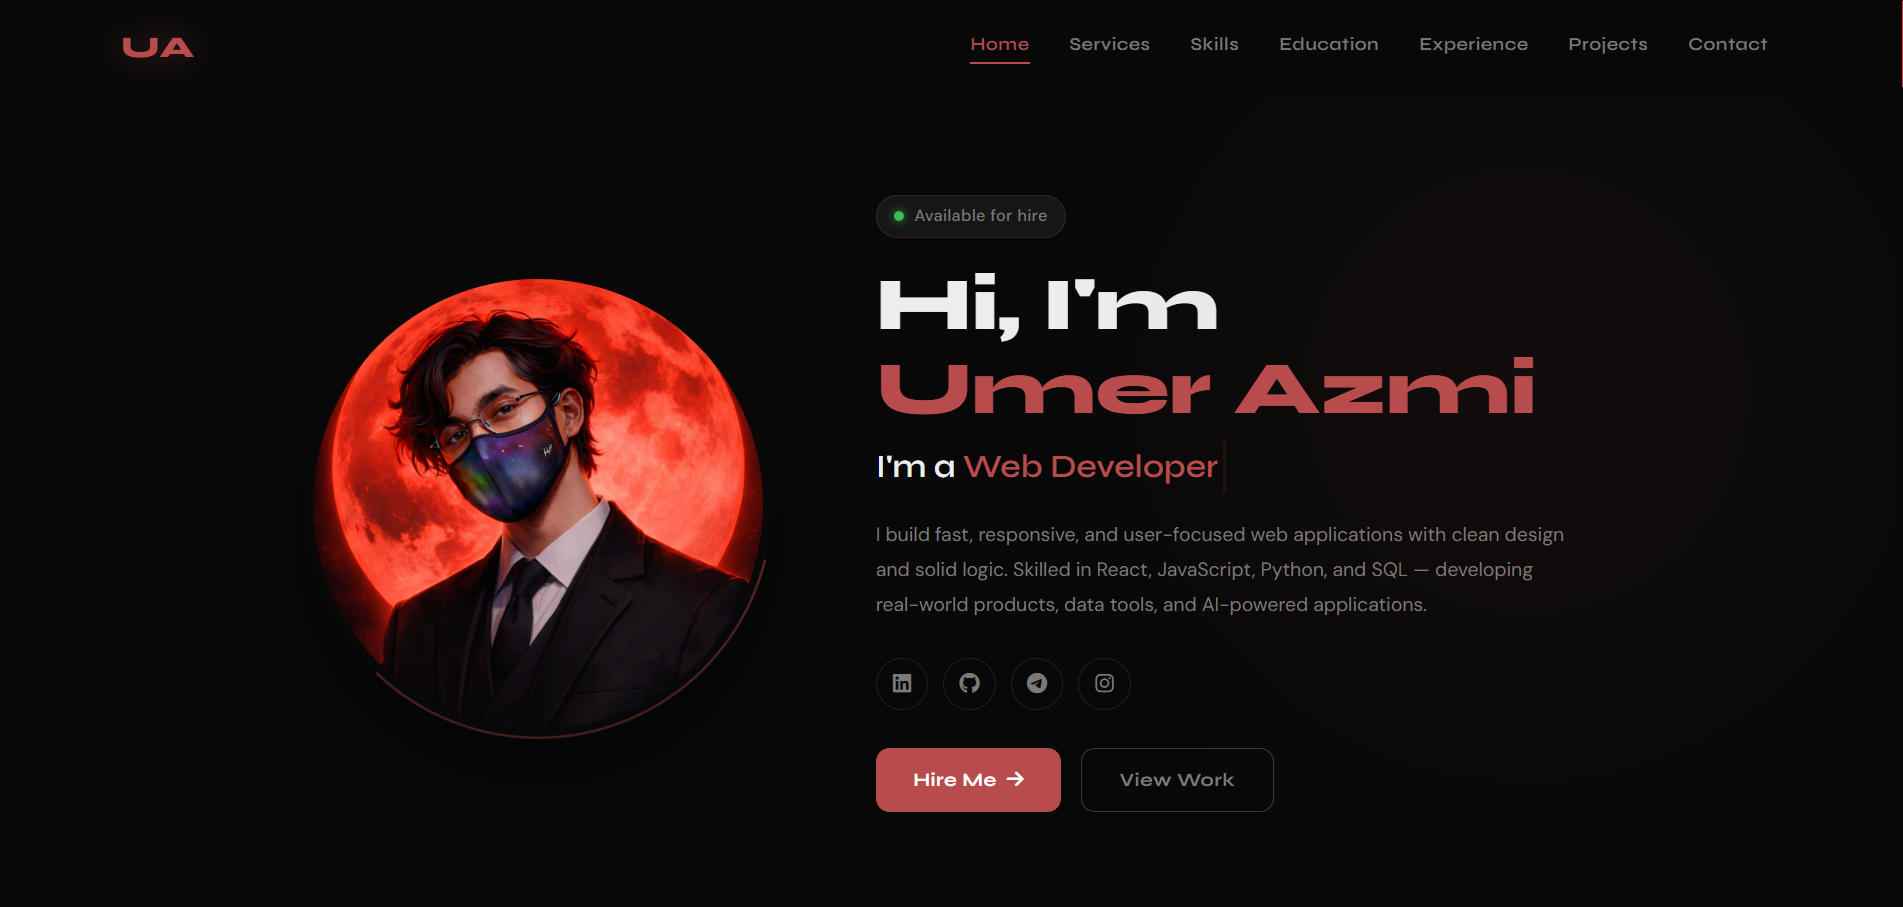
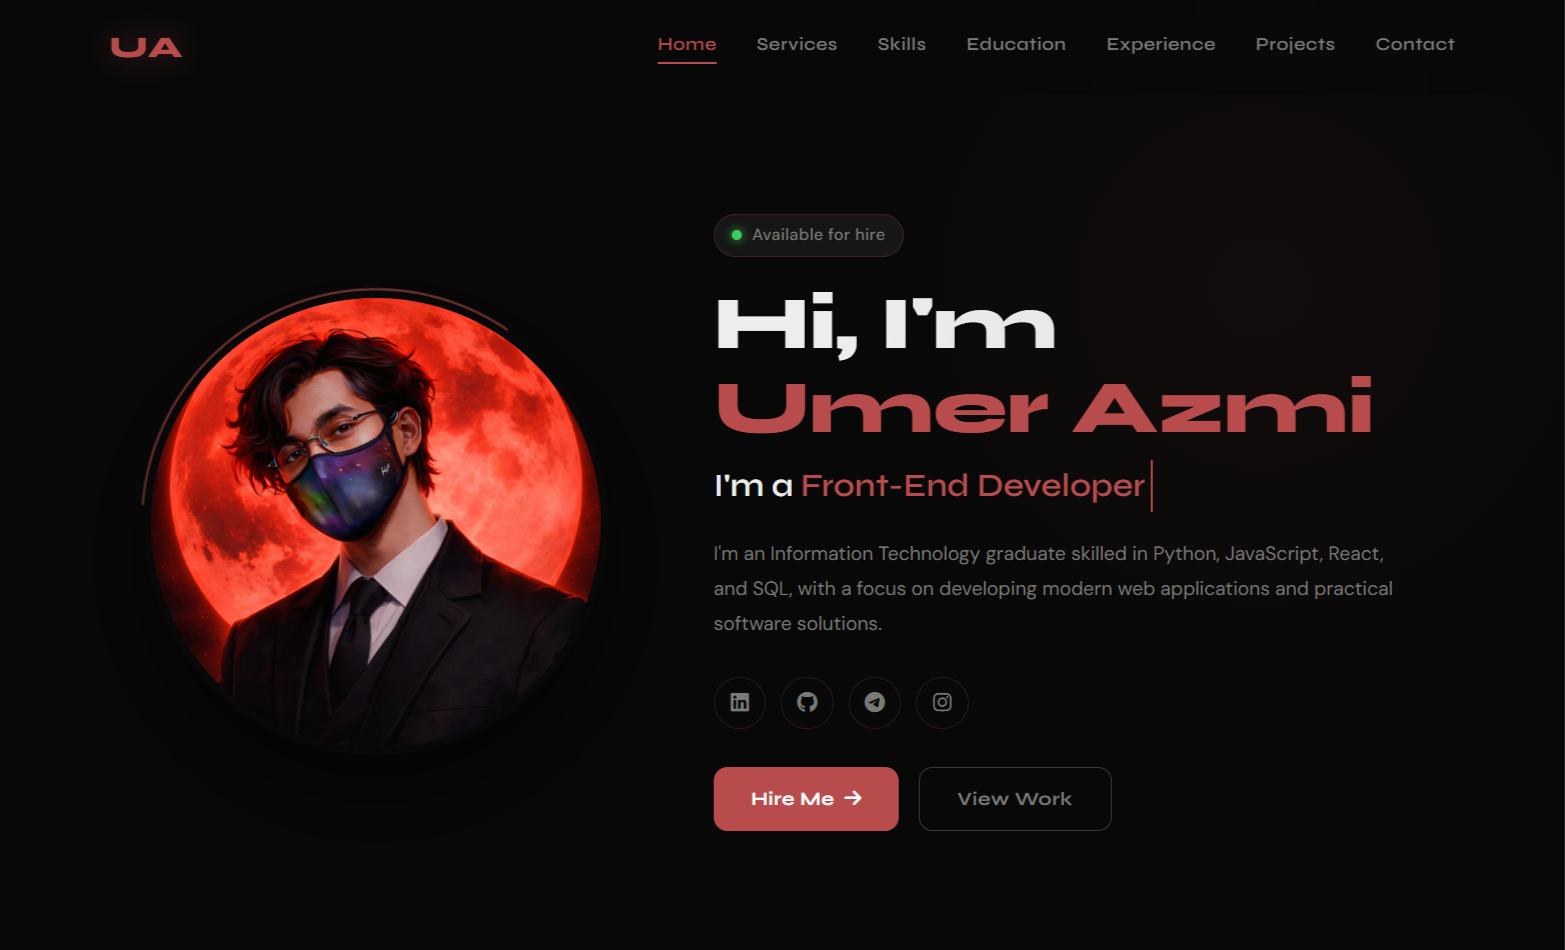
chore: final polish and minor improvements

diff --git a/index.html b/index.html
@@ -51,7 +51,7 @@
       <div class="home-badge"><span class="badge-dot"></span>Available for hire</div>
       <h1>Hi, I'm<br><span>Umer Azmi</span></h1>
       <h3 class="typingText">I'm a <span></span></h3>
-      <p>I build fast, responsive, and user-focused web applications with clean design and solid logic. Skilled in React, JavaScript, Python, and SQL. Passionate about developing real-world products, data tools, and AI-powered applications.</p>
+      <p>I'm an Information Technology graduate skilled in Python, JavaScript, React, and SQL, with a focus on developing modern web applications and practical software solutions.</p>
       <div class="socialIcons">
         <a href="https://www.linkedin.com/in/umer-azmi-1181351a1/" target="_blank"><i class="fa-brands fa-linkedin"></i></a>
         <a href="https://github.com/UmerAzmi" target="_blank"><i class="fa-brands fa-github"></i></a>
